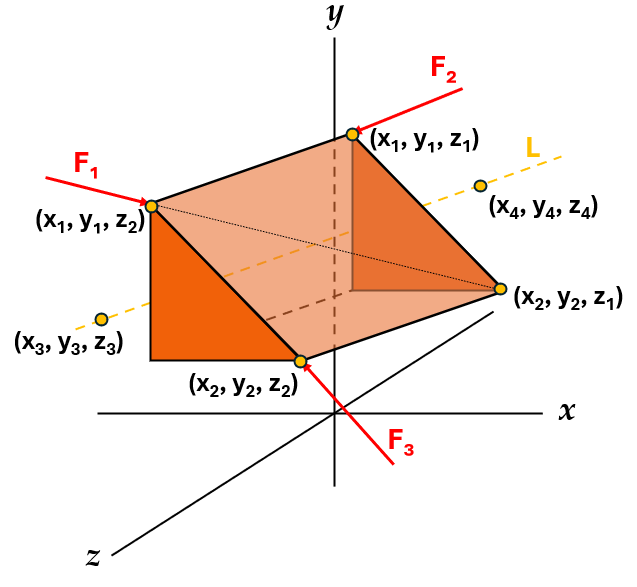
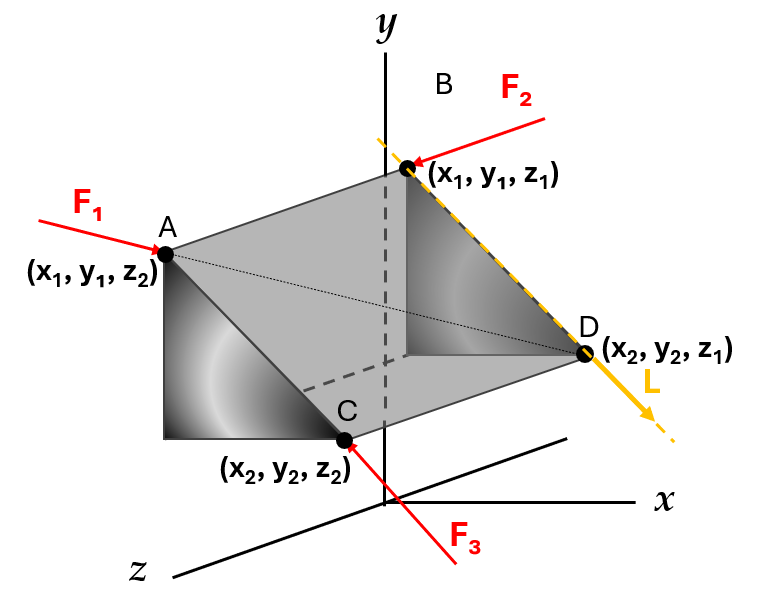
MAE_D

diff --git a/Class_Preguntas.py b/Class_Preguntas.py
@@ -4959,80 +4959,88 @@ preguntas = [
     #-------------------------------------------------       Nivel Díficil   ---------------------------------------------------
     #-------------------------------------------------      Code: 23300##    --------------------------------------------------
 
-    # Questionary(#1_1
-    #     code = 2330011,
-    #     no_pregunta = 1,
-    #     complexity = D,
-    #     topic = MO,
-    #     subtopic = "Momento alrededor de un eje",
-    #     version = 1,
-    #     pregunta = lambda f, a, calc, c, d, m: f"Determine el momento total (magnitud) que resulta de las fuerzas: $F_1 = {f[0]:.0f}$, $F_2 = {f[1]:.0f}$, $F_3 = {f[2]:.0f}$ aplicadas sobre el cuerpo mostrado, proyectado sobre el eje $y$. Tenga en cuenta que $x_0 = {c[0]:.0f}[m]$, $x_1 = {c[4]:.0f}[m]$, $x_2 = {c[5]:.0f}[m]$, $x_3 = {c[3]:.0f}[m]$, $x_4 = {c[1]:.0f}[m]$ y $x_5 = {c[2]:.0f}[m]$",
-    #     no_answers = 1,
-    #     a1_name = "Momento en el eje $Y$ [$N \\cdot m$]",
-    #     a2_name = "",
-    #     a3_name = "",
-    #     answer1 = lambda f, a, calc, c, d, m: np.round(((c[0]*f[0]*(c[2]-c[5]))/Calculations.magnitude3D(c[3]-c[0],c[1]-c[4],c[2]-c[5]))-((f[0]*(c[3]-c[0])*c[5])/Calculations.magnitude3D(c[3]-c[0],c[1]-c[4],c[2]-c[5]))-(c[0]*f[1])+((c[5]*f[2]*(c[0]-c[3]))/Calculations.magnitude(c[0]-c[3],c[4]-c[1])),2),
-    #     answer2 = lambda f, a, calc, c, d, m: 0,
-    #     answer3 = lambda f, a, calc, c, d, m: 0,
-    #     ayuda1 = "Se le dieron puntos por donde paa la linea de acción de las fuerzas. Uselos para hallar la dirección (vector unitario) y asi encontrar los vectores de cada fuerza.",
-    #     ayuda2 = "Realice sumatoria de momentos con los encontrados, que son generados por cada fuerza con respecto al origen.$",      
-    #     ayuda3 = "El vector unitario del eje $y$ denominado como $\\hat{{j}} es (0\\hat{{i}} + 1\\hat{{j}} + 0\\hat{{k}}).",
-    #     respuesta_P1 = lambda f, a, calc, c, d, m: f"""
-    #     A continuacion se presenta una posible solución para el problema:
+    Questionary(#1_1
+        code = 2330011,
+        no_pregunta = 1,
+        complexity = D,
+        topic = MO,
+        subtopic = "Momento alrededor de un eje",
+        version = 1,
+        pregunta = lambda f, a, calc, c, d, m: f"Determine el momento alrededor de la línea $L$ que resulta de las fuerzas: $F_1 = {f[0]:.0f} \\text{{ N}}$, $F_2 = {f[1]:.0f} \\text{{ N}}$, $F_3 = {f[2]:.0f} \\text{{ N}}$ aplicadas sobre el cuerpo mostrado. Considere que $x_1 = {d[0]/100:.2f} \\text{{ m}}$, $x_2 = {(d[0]+50)/100:.2f}\\text{{ m}}$, $y_1 = {(d[3]+50)/100:.2f} \\text{{ m}}$, $y_2 = {d[3]/100:.2f}\\text{{ m}}$, $z_1 = {-d[6]/100:.2f}\\text{{ m}}$ y $z_2 = {d[9]/100:.2f} \\text{{ m}}$.",
+        no_answers = 3,
+        a1_name = "Componente $x$ [$kN \\cdot m$]",
+        a2_name = "Componente $y$ [$kN \\cdot m$]",
+        a3_name = "Componente $z$ [$kN \\cdot m$]",
+        answer1 = lambda f, a, calc, c, d, m: np.round((((((d[0]+50)/100)-(d[0]/100))/Calculations.magnitude3D(((d[0]+50)/100)-(d[0]/100),0,(d[3]/100)-((d[3]+50)/100)))*(((d[3]/100)-((d[3]+50)/100))*((((d[9]/100)-(-d[6]/100))/math.sqrt(((d[9]/100)-(-d[6]/100)))**2)*(f[1]))+(-((d[9]/100)-(-d[6]/100))*((((d[3]+50)/100)-(d[3]/100))/Calculations.magnitude3D(0,(-(((d[0]+50)/100)-(d[0]/100))),(((d[3]+50)/100)-(d[3]/100)))*(f[2]))))+(((d[3]/100)-((d[3]+50)/100))/Calculations.magnitude3D(((d[0]+50)/100)-(d[0]/100),0,(d[3]/100)-((d[3]+50)/100)))*(((((d[0]+50)/100)-(d[0]/100)))*(((d[9]/100)-(-d[6]/100))/math.sqrt(((d[9]/100)-(-d[6]/100)))**2)*(f[1])+((d[9]/100)-(-d[6]/100))*(-(((d[0]+50)/100)-(d[0]/100))/Calculations.magnitude3D(0,(-(((d[0]+50)/100)-(d[0]/100))),(((d[3]+50)/100)-(d[3]/100)))*(f[2]))))*((((d[0]+50)/100)-(d[0]/100))/Calculations.magnitude3D(((d[0]+50)/100)-(d[0]/100),0,(d[3]/100)-((d[3]+50)/100))),2),
+        answer2 = lambda f, a, calc, c, d, m: np.round((((((d[0]+50)/100)-(d[0]/100))/Calculations.magnitude3D(((d[0]+50)/100)-(d[0]/100),0,(d[3]/100)-((d[3]+50)/100)))*(((d[3]/100)-((d[3]+50)/100))*((((d[9]/100)-(-d[6]/100))/math.sqrt(((d[9]/100)-(-d[6]/100)))**2)*(f[1]))+(-((d[9]/100)-(-d[6]/100))*((((d[3]+50)/100)-(d[3]/100))/Calculations.magnitude3D(0,(-(((d[0]+50)/100)-(d[0]/100))),(((d[3]+50)/100)-(d[3]/100)))*(f[2]))))+(((d[3]/100)-((d[3]+50)/100))/Calculations.magnitude3D(((d[0]+50)/100)-(d[0]/100),0,(d[3]/100)-((d[3]+50)/100)))*(((((d[0]+50)/100)-(d[0]/100)))*(((d[9]/100)-(-d[6]/100))/math.sqrt(((d[9]/100)-(-d[6]/100)))**2)*(f[1])+((d[9]/100)-(-d[6]/100))*(-(((d[0]+50)/100)-(d[0]/100))/Calculations.magnitude3D(0,(-(((d[0]+50)/100)-(d[0]/100))),(((d[3]+50)/100)-(d[3]/100)))*(f[2]))))*(((d[3]/100)-((d[3]+50)/100))/Calculations.magnitude3D(((d[0]+50)/100)-(d[0]/100),0,(d[3]/100)-((d[3]+50)/100))),2),
+        answer3 = lambda f, a, calc, c, d, m: 0,
+        ayuda1 = MAE1,
+        ayuda2 = "Use las coordenadas de los puntos para descomponer las fuerzas.",      
+        ayuda3 = "Calcule el vector unitario de la recta y realice el producto punto con el vector resultante de la sumatoria de momento. Esta operación proporciona la magnitud del momento proyectado sobre la dirección de la recta. Para obtener el vector momento en dicha dirección, multiplique nuevamente esta magnitud por el vector unitario de la recta.",
+        respuesta_P1 = lambda f, a, calc, c, d, m: f"""
+        El momento alrededor de un eje se calcula mediante el producto punto entre el vector de momento en un punto sobre el eje y el vector director del eje. A continuación, se presenta la solución sugerida para el ejercicio:  
         
-    #     $\\textbf{{\\small 1. Hallar los vectores fuerza - Vector Unitario:}}$
-    #     Usando las coordenadas dadas en el ejercicio, se puede determinar la direccion del vector fuerza por medio de la resta entre ellas.
+        $\\textbf{{\\small 1. Momento de cada una de las fuerzas con respecto a D: }}$ 
 
-    #     Para $\\vec{{F_1}}$:
-    #     ${{\hspace{{4mm}} \\vec{{f_1}} = ({c[3]-c[0]})\\hat{{i}}+({c[1]-c[4]})\\hat{{j}}+({c[2]-c[5]})\\hat{{k}}}}$     
-    #     ${{\hspace{{4mm}} \\vec{{\\lambda_{{f_1}}}} = \\dfrac{c[3]-c[0]}{{\\sqrt{{{(c[3]-c[0])}^2 + {(c[1]-c[4])}^2 + {(c[2]-c[5])}^2}}}}\\hat{{i}}+\\dfrac{c[1]-c[4]}{{\\sqrt{{{(c[3]-c[0])}^2 + {(c[1]-c[4])}^2 + {(c[2]-c[5])}^2}}}}\\hat{{j}}+\\dfrac{c[2]-c[5]}{{\\sqrt{{{(c[3]-c[0])}^2 + {(c[1]-c[4])}^2 + {(c[2]-c[5])}^2}}}}\\hat{{k}}}}$
-    #     ${{\hspace{{4mm}} \\vec{{\\lambda_{{f_1}}}} = ({(c[3]-c[0])/Calculations.magnitude3D(c[3]-c[0],c[1]-c[4],c[2]-c[5])})\\hat{{i}}+({(c[1]-c[4])/Calculations.magnitude3D(c[3]-c[0],c[1]-c[4],c[2]-c[5])})\\hat{{j}}+({(c[2]-c[5])/Calculations.magnitude3D(c[3]-c[0],c[1]-c[4],c[2]-c[5])})\\hat{{k}}}}$
+        Se selecciona el punto $D$ por que se encuentra sobre la línea $L$.
 
-    #     Multiplicando por $F_1$ nos queda:
-    #     ${{\hspace{{4mm}} \\vec{{F_1}} = (({f[0]*(c[3]-c[0])/Calculations.magnitude3D(c[3]-c[0],c[1]-c[4],c[2]-c[5])})\\hat{{i}}+({f[0]*(c[1]-c[4])/Calculations.magnitude3D(c[3]-c[0],c[1]-c[4],c[2]-c[5])})\\hat{{j}}+({f[0]*(c[2]-c[5])/Calculations.magnitude3D(c[3]-c[0],c[1]-c[4],c[2]-c[5])})\\hat{{k}})[N]}}$
-        
-    #     Para $\\vec{{F_2}}$:
-    #     ${{\hspace{{4mm}} \\vec{{f_2}} = ({c[0]-c[0]})\\hat{{i}}+({c[4]-c[4]})\\hat{{j}}+({c[5]-c[2]})\\hat{{k}}}}
-    #     ${{\hspace{{4mm}} \\vec{{\\lambda_{{f_2}}}} = 0\\hat{{i}} + 0\\hat{{j}} + 1\\hat{{k}}}}$
+        $\\underline{{Momento \\text{{ }} de \\text{{ }} la \\text{{ }} fuerza \\text{{ }} F1}}$
 
-    #     Multiplicando por $F_2$ nos queda:
-    #     ${{\hspace{{4mm}} \\vec{{F_2}} = (0\\hat{{i}} + 0\\hat{{j}} + {f[1]}\\hat{{k}})[N]}}$
-        
-    #     Para $\\vec{{F_3}}$:
-    #     ${{\hspace{{4mm}} \\vec{{f_3}} = ({c[0]-c[3]})\\hat{{i}}+({c[4]-c[1]})\\hat{{j}}+({c[5]-c[5]})\\hat{{k}}}}$     
-    #     ${{\hspace{{4mm}} \\vec{{\\lambda_{{f_3}}}} = \\dfrac{c[0]-c[3]}{{\\sqrt{{{(c[0]-c[3])}^2 + {(c[4]-c[1])}^2}}}}\\hat{{i}} + \\dfrac{c[4]-c[1]}{{\\sqrt{{{(c[0]-c[3])}^2 + {(c[4]-c[1])}^2}}}}\\hat{{j}} + 0\\hat{{k}}}}$
-    #     ${{\hspace{{4mm}} \\vec{{\\lambda_{{f_3}}}} = ({(c[0]-c[3])/Calculations.magnitude(c[0]-c[3],c[4]-c[1])})\\hat{{i}} + ({(c[4]-c[1])/Calculations.magnitude(c[0]-c[3],c[4]-c[1])})\\hat{{j}} + 0\\hat{{k}}}}$
+        La fuerza $F_1$ no realiza momento en el punto $D$, dado que, su línea de acción cruza dicho punto.
 
-    #     Multiplicando por $F_3$ nos queda:
-    #     ${{\hspace{{4mm}} \\vec{{F_3}} = (({f[2]*(c[0]-c[3])/Calculations.magnitude(c[0]-c[3],c[4]-c[1])})\\hat{{i}} + ({f[2]*(c[4]-c[1])/Calculations.magnitude(c[0]-c[3],c[4]-c[1])})\\hat{{j}} + 0\\hat{{k}})[N]}}$
-        
-    #     $\\textbf{{\\small 2. Encontrar momento para cada fuerza - Alrededor del origen:}}$
-    #     Para $\\vec{{F_1}}$
-    #     Haciendo el producto cruz queda el siguiente resultado:
-    #     ${{\hspace{{4mm}} \\vec{{M_{{F_1}}}} = (({c[4]*f[0]*(c[2]-c[5])/Calculations.magnitude3D(c[3]-c[0],c[1]-c[4],c[2]-c[5])}-{c[5]*f[0]*(c[1]-c[4])/Calculations.magnitude3D(c[3]-c[0],c[1]-c[4],c[2]-c[5])})\\hat{{i}}-({c[0]*f[0]*(c[2]-c[5])/Calculations.magnitude3D(c[3]-c[0],c[1]-c[4],c[2]-c[5])}-{c[5]*f[0]*(c[3]-c[0])/Calculations.magnitude3D(c[3]-c[0],c[1]-c[4],c[2]-c[5])})\\hat{{j}}+({c[0]*f[0]*(c[1]-c[4])/Calculations.magnitude3D(c[3]-c[0],c[1]-c[4],c[2]-c[5])}-{c[4]*f[0]*(c[3]-c[0])/Calculations.magnitude3D(c[3]-c[0],c[1]-c[4],c[2]-c[5])})\\hat{{k}})[N \\cdot m]}}$
-    #     ${{\hspace{{4mm}} \\vec{{M_{{F_1}}}} = (({c[4]*f[0]*(c[2]-c[5])/Calculations.magnitude3D(c[3]-c[0],c[1]-c[4],c[2]-c[5])-(c[5]*f[0]*(c[1]-c[4])/Calculations.magnitude3D(c[3]-c[0],c[1]-c[4],c[2]-c[5]))})\\hat{{i}}-({c[0]*f[0]*(c[2]-c[5])/Calculations.magnitude3D(c[3]-c[0],c[1]-c[4],c[2]-c[5])-(c[5]*f[0]*(c[3]-c[0])/Calculations.magnitude3D(c[3]-c[0],c[1]-c[4],c[2]-c[5]))})\\hat{{j}}+({c[0]*f[0]*(c[1]-c[4])/Calculations.magnitude3D(c[3]-c[0],c[1]-c[4],c[2]-c[5])-(c[4]*f[0]*(c[3]-c[0])/Calculations.magnitude3D(c[3]-c[0],c[1]-c[4],c[2]-c[5]))})\\hat{{k}})[N \\cdot m]}}$
-        
-    #     Para $\\vec{{F_2}}$
-    #     Haciendo el producto cruz queda el siguiente resultado:
-    #     ${{\hspace{{4mm}} \\vec{{M_{{F_2}}}} = (({c[4]*f[1]})\\hat{{i}} - ({c[0]*f[1]})\\hat{{j}} + 0\\hat{{k}})[N \\cdot m]}}$
-        
-    #     Para $\\vec{{F_3}}$
-    #     Haciendo el producto cruz queda el siguiente resultado:
-    #     ${{\hspace{{4mm}} \\vec{{M_{{F_3}}}} = (({-1*c[5]*f[2]*(c[4]-c[1])/Calculations.magnitude(c[0]-c[3],c[4]-c[1])})\\hat{{i}}+({-1*c[5]*f[2]*(c[0]-c[3])/Calculations.magnitude(c[0]-c[3],c[4]-c[1])})\\hat{{j}}+({c[3]*f[2]*(c[4]-c[1])/Calculations.magnitude(c[0]-c[3],c[4]-c[1])}-{c[1]*f[2]*(c[0]-c[3])/Calculations.magnitude(c[0]-c[3],c[4]-c[1])})\\hat{{k}})[N \\cdot m]}}$
-    #     ${{\hspace{{4mm}} \\vec{{M_{{F_3}}}} = (({-1*c[5]*f[2]*(c[4]-c[1])/Calculations.magnitude(c[0]-c[3],c[4]-c[1])})\\hat{{i}}+({-1*c[5]*f[2]*(c[0]-c[3])/Calculations.magnitude(c[0]-c[3],c[4]-c[1])})\\hat{{j}}+({c[3]*f[2]*(c[4]-c[1])/Calculations.magnitude(c[0]-c[3],c[4]-c[1])-(c[1]*f[2]*(c[0]-c[3])/Calculations.magnitude(c[0]-c[3],c[4]-c[1]))})\\hat{{k}})[N \\cdot m]}}$
-        
-    #     $\\textbf{{\\small 3. Sumatoria de momentos generados por las fuerzas:}}$
-    #     Sumando los resultados para cada componente encontrados anteriormente determinamos que:
-    #     ${{\hspace{{4mm}} \\sum{{M}} = (({(c[4]*f[0]*(c[2]-c[5])/Calculations.magnitude3D(c[3]-c[0],c[1]-c[4],c[2]-c[5])-(c[5]*f[0]*(c[1]-c[4])/Calculations.magnitude3D(c[3]-c[0],c[1]-c[4],c[2]-c[5])))+(c[4]*f[1])+(-1*c[5]*f[2]*(c[4]-c[1])/Calculations.magnitude(c[0]-c[3],c[4]-c[1]))})\\hat{{i}} + ({(c[0]*f[0]*(c[2]-c[5])/Calculations.magnitude3D(c[3]-c[0],c[1]-c[4],c[2]-c[5])-(c[5]*f[0]*(c[3]-c[0])/Calculations.magnitude3D(c[3]-c[0],c[1]-c[4],c[2]-c[5])))+(c[0]*f[1])+(-1*c[5]*f[2]*(c[0]-c[3])/Calculations.magnitude(c[0]-c[3],c[4]-c[1]))})\\hat{{j}} + ({(c[0]*f[0]*(c[1]-c[4])/Calculations.magnitude3D(c[3]-c[0],c[1]-c[4],c[2]-c[5])-(c[4]*f[0]*(c[3]-c[0])/Calculations.magnitude3D(c[3]-c[0],c[1]-c[4],c[2]-c[5])))+(c[3]*f[2]*(c[4]-c[1])/Calculations.magnitude(c[0]-c[3],c[4]-c[1])-(c[1]*f[2]*(c[0]-c[3])/Calculations.magnitude(c[0]-c[3],c[4]-c[1])))})\\hat{{k}})[N \\cdot m]}}$
-        
-    #     $\\textbf{{\\small 3. Sumatoria de momentos generados por las fuerzas:}}$
-    #     ${{\hspace{{4mm}} \\sum{{M}} \\cdot \\hat{{j}} = {(c[0]*f[0]*(c[2]-c[5])/Calculations.magnitude3D(c[3]-c[0],c[1]-c[4],c[2]-c[5])-(c[5]*f[0]*(c[3]-c[0])/Calculations.magnitude3D(c[3]-c[0],c[1]-c[4],c[2]-c[5])))+(c[0]*f[1])+(-1*c[5]*f[2]*(c[0]-c[3])/Calculations.magnitude(c[0]-c[3],c[4]-c[1]))}[N \\cdot m]}}$
-        
-    #     """,   
-    #     respuesta_P2 = lambda f, a, calc, c, d, m: f"",
-    #     respuesta_P3 = lambda f, a, calc, c, d, m: f"",
-    #     calculos='operations'
-    #     ),
+
+        $\\underline{{Momento \\text{{ }} de \\text{{ }} la \\text{{ }} fuerza \\text{{ }} F2}}$
+
+        Los vectores para calcular el producto cruz son:
+
+        ${{\hspace{{4mm}} \\vec{{r}} = [{-(((d[0]+50)/100)-(d[0]/100)):.2f} \\hat{{i}} + ({(d[3]/100)-((d[3]+50)/100):.2f}) \\hat{{j}} + 0\\hat{{k}}] \\text{{m}}}}$  
+
+        Para descomponer la fuerza $F_2$, se determina su vector unitario utilizando las coordenadas de los puntos $A$ y $B$.
+
+        ${{\hspace{{4mm}} \\vec{{\\lambda_{{F2}}}} = [0 \\hat{{i}} + 0\\hat{{j}} + {((d[9]/100)-(-d[6]/100))/math.sqrt(((d[9]/100)-(-d[6]/100)))**2:.2f}\\hat{{k}}] \\text{{ N}} }}$   
+
+        ${{\hspace{{4mm}} \\vec{{F_2}} = F_2 \\cdot \\vec{{\\lambda_{{F2}}}} = [0 \\hat{{i}} + 0\\hat{{j}} + {(((d[9]/100)-(-d[6]/100))/math.sqrt(((d[9]/100)-(-d[6]/100)))**2)*(f[1]):.2f}\\hat{{k}}] \\text{{ N}} }}$            
+
+        ${{\hspace{{4mm}} \\vec{{M_{{F2}}}} = [{((d[3]/100)-((d[3]+50)/100))*((((d[9]/100)-(-d[6]/100))/math.sqrt(((d[9]/100)-(-d[6]/100)))**2)*(f[1])):.2f} \\hat{{i}} + {((((d[0]+50)/100)-(d[0]/100)))*(((d[9]/100)-(-d[6]/100))/math.sqrt(((d[9]/100)-(-d[6]/100)))**2)*(f[1]):.2f} \\hat{{j}} - 0\\hat{{k}}] N \\cdot m}}$     
+
+
+        $\\underline{{Momento \\text{{ }} de \\text{{ }} la \\text{{ }} fuerza \\text{{ }} F3}}$
+
+        Los vectores para calcular el producto cruz son:
+
+        ${{\hspace{{4mm}} \\vec{{r}} = [0 \\hat{{i}} + 0 \\hat{{j}} + {(d[9]/100)-(-d[6]/100):.2f}\\hat{{k}}] \\text{{m}}}}$  
+
+        Para descomponer la fuerza $F_3$, se determina su vector unitario utilizando las coordenadas de los puntos $A$ y $C$.
+
+        ${{\hspace{{4mm}} \\vec{{\\lambda_{{F3}}}} = [{-(((d[0]+50)/100)-(d[0]/100))/Calculations.magnitude3D(0,(-(((d[0]+50)/100)-(d[0]/100))),(((d[3]+50)/100)-(d[3]/100))):.2f} \\hat{{i}} + {(((d[3]+50)/100)-(d[3]/100))/Calculations.magnitude3D(0,(-(((d[0]+50)/100)-(d[0]/100))),(((d[3]+50)/100)-(d[3]/100))):.2f}\\hat{{j}} + 0\\hat{{k}}] \\text{{ N}} }}$   
+
+        ${{\hspace{{4mm}} \\vec{{F_3}} = F_3 \\cdot \\vec{{\\lambda_{{F3}}}} = [{-(((d[0]+50)/100)-(d[0]/100))/Calculations.magnitude3D(0,(-(((d[0]+50)/100)-(d[0]/100))),(((d[3]+50)/100)-(d[3]/100)))*(f[2]):.2f} \\hat{{i}} + {(((d[3]+50)/100)-(d[3]/100))/Calculations.magnitude3D(0,(-(((d[0]+50)/100)-(d[0]/100))),(((d[3]+50)/100)-(d[3]/100)))*(f[2]):.2f}\\hat{{j}} + 0\\hat{{k}}] \\text{{ N}} }}$            
+
+        ${{\hspace{{4mm}} \\vec{{M_{{F3}}}} = [{-((d[9]/100)-(-d[6]/100))*((((d[3]+50)/100)-(d[3]/100))/Calculations.magnitude3D(0,(-(((d[0]+50)/100)-(d[0]/100))),(((d[3]+50)/100)-(d[3]/100)))*(f[2])):.2f} \\hat{{i}}  {((d[9]/100)-(-d[6]/100))*(-(((d[0]+50)/100)-(d[0]/100))/Calculations.magnitude3D(0,(-(((d[0]+50)/100)-(d[0]/100))),(((d[3]+50)/100)-(d[3]/100)))*(f[2])):.2f} \\hat{{j}} + 0\\hat{{k}}] N \\cdot m}}$     
+
+
+        $\\textbf{{\\small 2. Sumatoria de Momentos con respecto al punto D: }}$         
+
+        ${{\hspace{{4mm}} \\vec{{M_D}} = \\vec{{M_{{F2}}}} + \\vec{{M_{{F3}}}} = [{((d[3]/100)-((d[3]+50)/100))*((((d[9]/100)-(-d[6]/100))/math.sqrt(((d[9]/100)-(-d[6]/100)))**2)*(f[1]))+(-((d[9]/100)-(-d[6]/100))*((((d[3]+50)/100)-(d[3]/100))/Calculations.magnitude3D(0,(-(((d[0]+50)/100)-(d[0]/100))),(((d[3]+50)/100)-(d[3]/100)))*(f[2]))):.2f}\\hat{{i}} + ({((((d[0]+50)/100)-(d[0]/100)))*(((d[9]/100)-(-d[6]/100))/math.sqrt(((d[9]/100)-(-d[6]/100)))**2)*(f[1])+((d[9]/100)-(-d[6]/100))*(-(((d[0]+50)/100)-(d[0]/100))/Calculations.magnitude3D(0,(-(((d[0]+50)/100)-(d[0]/100))),(((d[3]+50)/100)-(d[3]/100)))*(f[2])):.2f})\\hat{{j}} + 0\\hat{{k}}] \\text{{ }} kN \\cdot m}}$ 
+
+        $\\textbf{{\\small 3. Vector director de la recta L - Vector Unitario: }}$    
+
+        ${{\hspace{{4mm}} \\vec{{L}} = {((d[0]+50)/100)-(d[0]/100):.2f}\\hat{{i}} + ({(d[3]/100)-((d[3]+50)/100):.2f}) \\hat{{j}} + 0\\hat{{k}}}}$                      
+        ${{\hspace{{4mm}} \\vec{{\\lambda_L}} = {(((d[0]+50)/100)-(d[0]/100))/Calculations.magnitude3D(((d[0]+50)/100)-(d[0]/100),0,(d[3]/100)-((d[3]+50)/100)):.2f}\\hat{{i}} + ({((d[3]/100)-((d[3]+50)/100))/Calculations.magnitude3D(((d[0]+50)/100)-(d[0]/100),0,(d[3]/100)-((d[3]+50)/100)):.2f})\\hat{{j}} + 0\\hat{{k}}}}$
+
+        $\\textbf{{\\small 4. Momento sobre la recta L: }}$       
+
+        ${{\hspace{{4mm}} |\\vec{{M_L}}| =\\vec{{M_D}} \\cdot \\vec{{\\lambda_L}} = ({((d[3]/100)-((d[3]+50)/100))*((((d[9]/100)-(-d[6]/100))/math.sqrt(((d[9]/100)-(-d[6]/100)))**2)*(f[1]))+(-((d[9]/100)-(-d[6]/100))*((((d[3]+50)/100)-(d[3]/100))/Calculations.magnitude3D(0,(-(((d[0]+50)/100)-(d[0]/100))),(((d[3]+50)/100)-(d[3]/100)))*(f[2]))):.2f}\\hat{{i}} + ({((((d[0]+50)/100)-(d[0]/100)))*(((d[9]/100)-(-d[6]/100))/math.sqrt(((d[9]/100)-(-d[6]/100)))**2)*(f[1])+((d[9]/100)-(-d[6]/100))*(-(((d[0]+50)/100)-(d[0]/100))/Calculations.magnitude3D(0,(-(((d[0]+50)/100)-(d[0]/100))),(((d[3]+50)/100)-(d[3]/100)))*(f[2])):.2f})\\hat{{j}} + 0\\hat{{k}}) \\cdot ({(((d[0]+50)/100)-(d[0]/100))/Calculations.magnitude3D(((d[0]+50)/100)-(d[0]/100),0,(d[3]/100)-((d[3]+50)/100)):.2f}\\hat{{i}} + ({((d[3]/100)-((d[3]+50)/100))/Calculations.magnitude3D(((d[0]+50)/100)-(d[0]/100),0,(d[3]/100)-((d[3]+50)/100)):.2f})\\hat{{j}} + 0\\hat{{k}}) }}$        
+        ${{\hspace{{4mm}} |\\vec{{M_L}}| =\\vec{{M_D}} \\cdot \\vec{{\\lambda_L}} = {((((d[0]+50)/100)-(d[0]/100))/Calculations.magnitude3D(((d[0]+50)/100)-(d[0]/100),0,(d[3]/100)-((d[3]+50)/100)))*(((d[3]/100)-((d[3]+50)/100))*((((d[9]/100)-(-d[6]/100))/math.sqrt(((d[9]/100)-(-d[6]/100)))**2)*(f[1]))+(-((d[9]/100)-(-d[6]/100))*((((d[3]+50)/100)-(d[3]/100))/Calculations.magnitude3D(0,(-(((d[0]+50)/100)-(d[0]/100))),(((d[3]+50)/100)-(d[3]/100)))*(f[2]))))+(((d[3]/100)-((d[3]+50)/100))/Calculations.magnitude3D(((d[0]+50)/100)-(d[0]/100),0,(d[3]/100)-((d[3]+50)/100)))*(((((d[0]+50)/100)-(d[0]/100)))*(((d[9]/100)-(-d[6]/100))/math.sqrt(((d[9]/100)-(-d[6]/100)))**2)*(f[1])+((d[9]/100)-(-d[6]/100))*(-(((d[0]+50)/100)-(d[0]/100))/Calculations.magnitude3D(0,(-(((d[0]+50)/100)-(d[0]/100))),(((d[3]+50)/100)-(d[3]/100)))*(f[2]))):.2f} \\text{{ }} kN \\cdot m}}$
+
+        Para encontrar la dirección del momento alrededor de la recta $L$, se multiplica nuevamente por su vector unitario.
+
+        ${{\hspace{{4mm}} \\vec{{M_L}} =|\\vec{{M_L}}| \\cdot \\vec{{\\lambda_L}} = [{(((((d[0]+50)/100)-(d[0]/100))/Calculations.magnitude3D(((d[0]+50)/100)-(d[0]/100),0,(d[3]/100)-((d[3]+50)/100)))*(((d[3]/100)-((d[3]+50)/100))*((((d[9]/100)-(-d[6]/100))/math.sqrt(((d[9]/100)-(-d[6]/100)))**2)*(f[1]))+(-((d[9]/100)-(-d[6]/100))*((((d[3]+50)/100)-(d[3]/100))/Calculations.magnitude3D(0,(-(((d[0]+50)/100)-(d[0]/100))),(((d[3]+50)/100)-(d[3]/100)))*(f[2]))))+(((d[3]/100)-((d[3]+50)/100))/Calculations.magnitude3D(((d[0]+50)/100)-(d[0]/100),0,(d[3]/100)-((d[3]+50)/100)))*(((((d[0]+50)/100)-(d[0]/100)))*(((d[9]/100)-(-d[6]/100))/math.sqrt(((d[9]/100)-(-d[6]/100)))**2)*(f[1])+((d[9]/100)-(-d[6]/100))*(-(((d[0]+50)/100)-(d[0]/100))/Calculations.magnitude3D(0,(-(((d[0]+50)/100)-(d[0]/100))),(((d[3]+50)/100)-(d[3]/100)))*(f[2]))))*((((d[0]+50)/100)-(d[0]/100))/Calculations.magnitude3D(((d[0]+50)/100)-(d[0]/100),0,(d[3]/100)-((d[3]+50)/100))):.2f}\\hat{{i}}+{(((((d[0]+50)/100)-(d[0]/100))/Calculations.magnitude3D(((d[0]+50)/100)-(d[0]/100),0,(d[3]/100)-((d[3]+50)/100)))*(((d[3]/100)-((d[3]+50)/100))*((((d[9]/100)-(-d[6]/100))/math.sqrt(((d[9]/100)-(-d[6]/100)))**2)*(f[1]))+(-((d[9]/100)-(-d[6]/100))*((((d[3]+50)/100)-(d[3]/100))/Calculations.magnitude3D(0,(-(((d[0]+50)/100)-(d[0]/100))),(((d[3]+50)/100)-(d[3]/100)))*(f[2]))))+(((d[3]/100)-((d[3]+50)/100))/Calculations.magnitude3D(((d[0]+50)/100)-(d[0]/100),0,(d[3]/100)-((d[3]+50)/100)))*(((((d[0]+50)/100)-(d[0]/100)))*(((d[9]/100)-(-d[6]/100))/math.sqrt(((d[9]/100)-(-d[6]/100)))**2)*(f[1])+((d[9]/100)-(-d[6]/100))*(-(((d[0]+50)/100)-(d[0]/100))/Calculations.magnitude3D(0,(-(((d[0]+50)/100)-(d[0]/100))),(((d[3]+50)/100)-(d[3]/100)))*(f[2]))))*(((d[3]/100)-((d[3]+50)/100))/Calculations.magnitude3D(((d[0]+50)/100)-(d[0]/100),0,(d[3]/100)-((d[3]+50)/100))):.2f}\\hat{{j}}] \\text{{ }} N \\cdot m}}$
+        """,   
+        respuesta_P2 = lambda f, a, calc, c, d, m: f"",
+        respuesta_P3 = lambda f, a, calc, c, d, m: f"",
+        calculos='operations'
+        ),
 
     Questionary(#2_1
         code = 2330021,
@@ -5095,7 +5103,7 @@ preguntas = [
 
         Para encontrar la dirección del momento alrededor de la recta $L$, se multiplica nuevamente por su vector unitario.
 
-        ${{\hspace{{4mm}} |\\vec{{M_L}}| =\\vec{{M_L}} \\cdot \\vec{{\\lambda_L}} = [{(((f[0]*d[6]*d[3]/Calculations.magnitude(d[6],d[9]))*(d[0]/Calculations.magnitude3D(d[0],d[0]+2,d[0]-1)))+((f[0]*d[9]*d[3]/Calculations.magnitude(d[6],d[9]))*((d[0]+2)/Calculations.magnitude3D(d[0],d[0]+2,d[0]-1)))+((-1*f[1]*d[9])*((d[0]-1)/Calculations.magnitude3D(d[0],d[0]+2,d[0]-1))))*(d[0]/Calculations.magnitude3D(d[0],d[0]+2,d[0]-1)):.2f}\\hat{{i}}+({(((f[0]*d[6]*d[3]/Calculations.magnitude(d[6],d[9]))*(d[0]/Calculations.magnitude3D(d[0],d[0]+2,d[0]-1)))+((f[0]*d[9]*d[3]/Calculations.magnitude(d[6],d[9]))*((d[0]+2)/Calculations.magnitude3D(d[0],d[0]+2,d[0]-1)))+((-1*f[1]*d[9])*((d[0]-1)/Calculations.magnitude3D(d[0],d[0]+2,d[0]-1))))*((d[0]+2)/Calculations.magnitude3D(d[0],d[0]+2,d[0]-1)):.2f})\\hat{{j}}+({(((f[0]*d[6]*d[3]/Calculations.magnitude(d[6],d[9]))*(d[0]/Calculations.magnitude3D(d[0],d[0]+2,d[0]-1)))+((f[0]*d[9]*d[3]/Calculations.magnitude(d[6],d[9]))*((d[0]+2)/Calculations.magnitude3D(d[0],d[0]+2,d[0]-1)))+((-1*f[1]*d[9])*((d[0]-1)/Calculations.magnitude3D(d[0],d[0]+2,d[0]-1))))*((d[0]-1)/Calculations.magnitude3D(d[0],d[0]+2,d[0]-1)):.2f})\\hat{{k}}] \\text{{ }} kN \\cdot m}}$
+        ${{\hspace{{4mm}} \\vec{{M_L}} =|\\vec{{M_L}}| \\cdot \\vec{{\\lambda_L}} = [{(((f[0]*d[6]*d[3]/Calculations.magnitude(d[6],d[9]))*(d[0]/Calculations.magnitude3D(d[0],d[0]+2,d[0]-1)))+((f[0]*d[9]*d[3]/Calculations.magnitude(d[6],d[9]))*((d[0]+2)/Calculations.magnitude3D(d[0],d[0]+2,d[0]-1)))+((-1*f[1]*d[9])*((d[0]-1)/Calculations.magnitude3D(d[0],d[0]+2,d[0]-1))))*(d[0]/Calculations.magnitude3D(d[0],d[0]+2,d[0]-1)):.2f}\\hat{{i}}+({(((f[0]*d[6]*d[3]/Calculations.magnitude(d[6],d[9]))*(d[0]/Calculations.magnitude3D(d[0],d[0]+2,d[0]-1)))+((f[0]*d[9]*d[3]/Calculations.magnitude(d[6],d[9]))*((d[0]+2)/Calculations.magnitude3D(d[0],d[0]+2,d[0]-1)))+((-1*f[1]*d[9])*((d[0]-1)/Calculations.magnitude3D(d[0],d[0]+2,d[0]-1))))*((d[0]+2)/Calculations.magnitude3D(d[0],d[0]+2,d[0]-1)):.2f})\\hat{{j}}+({(((f[0]*d[6]*d[3]/Calculations.magnitude(d[6],d[9]))*(d[0]/Calculations.magnitude3D(d[0],d[0]+2,d[0]-1)))+((f[0]*d[9]*d[3]/Calculations.magnitude(d[6],d[9]))*((d[0]+2)/Calculations.magnitude3D(d[0],d[0]+2,d[0]-1)))+((-1*f[1]*d[9])*((d[0]-1)/Calculations.magnitude3D(d[0],d[0]+2,d[0]-1))))*((d[0]-1)/Calculations.magnitude3D(d[0],d[0]+2,d[0]-1)):.2f})\\hat{{k}}] \\text{{ }} kN \\cdot m}}$
         
         """,   
         respuesta_P2 = lambda f, a, calc, c, d, m: f"",
@@ -5169,7 +5177,7 @@ preguntas = [
 
         Para encontrar la dirección del momento alrededor de la recta $L$, se multiplica nuevamente por su vector unitario.
 
-        ${{\hspace{{4mm}} |\\vec{{M_L}}| =\\vec{{M_L}} \\cdot \\vec{{\\lambda_L}} = [{((d[3]*f[1]+(-d[6]*f[2]))*(d[12]/Calculations.magnitude3D(d[12],0,d[15]))+(-(d[6])*(f[0])-f[1]*d[9]/2)*((d[15])/Calculations.magnitude3D(d[12],0,d[15])))*(d[12]/Calculations.magnitude3D(d[12],0,d[15])):.2f} \\hat{{i}}  {((d[3]*f[1]+(-d[6]*f[2]))*(d[12]/Calculations.magnitude3D(d[12],0,d[15]))+(-(d[6])*(f[0])-f[1]*d[9]/2)*((d[15])/Calculations.magnitude3D(d[12],0,d[15])))*(d[15]/Calculations.magnitude3D(d[12],0,d[15])):.2f} \\hat{{k}}] \\text{{ }} kN \\cdot m}}$
+        ${{\hspace{{4mm}} \\vec{{M_L}} =|\\vec{{M_L}}| \\cdot \\vec{{\\lambda_L}} = [{((d[3]*f[1]+(-d[6]*f[2]))*(d[12]/Calculations.magnitude3D(d[12],0,d[15]))+(-(d[6])*(f[0])-f[1]*d[9]/2)*((d[15])/Calculations.magnitude3D(d[12],0,d[15])))*(d[12]/Calculations.magnitude3D(d[12],0,d[15])):.2f} \\hat{{i}}  {((d[3]*f[1]+(-d[6]*f[2]))*(d[12]/Calculations.magnitude3D(d[12],0,d[15]))+(-(d[6])*(f[0])-f[1]*d[9]/2)*((d[15])/Calculations.magnitude3D(d[12],0,d[15])))*(d[15]/Calculations.magnitude3D(d[12],0,d[15])):.2f} \\hat{{k}}] \\text{{ }} kN \\cdot m}}$
         """,   
         respuesta_P2 = lambda f, a, calc, c, d, m: f"",
         respuesta_P3 = lambda f, a, calc, c, d, m: f"",

diff --git a/Interface.py b/Interface.py
@@ -1060,6 +1060,8 @@ if authenticate_user():
                     if pregunta_no == 1:
                         st.image(M3D_image_paths[3], width=400)
                 if subtopic == "Momento alrededor de un eje":
+                    if pregunta_no == 1:
+                        st.image(MAE_image_paths[11], width=500)
                     if pregunta_no == 2:
                         st.image(MAE_image_paths[8], width=450)
                     if pregunta_no == 3:

diff --git a/Imagenes.py b/Imagenes.py
@@ -168,6 +168,7 @@ MAE_image_paths =[#Imágenes Preguntas Cálculo Momento alrededor de un eje
 "./Imagenes/Preguntas/MO/MAE/MO_MAE_D_2a.png", #[8]
 "./Imagenes/Preguntas/MO/MAE/MO_MAE_D_3a.png", #[9]
 "./Imagenes/Preguntas/MO/MAE/MO_MAE_D_4a.png", #[10]
+"./Imagenes/Preguntas/MO/MAE/MO_MAE_D_1a.png", #[11]
 ]
 
 MP_image_paths =[#Imágenes Preguntas Cálculo Momento par
